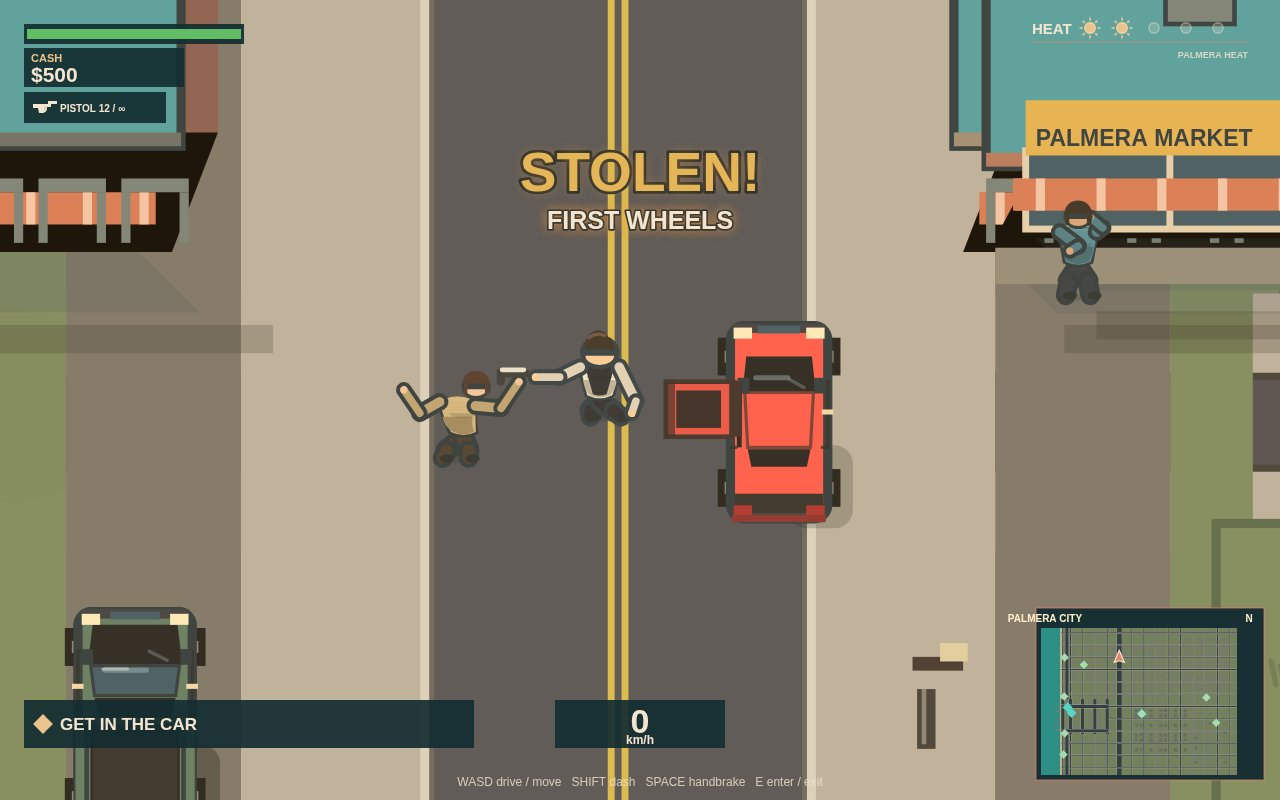
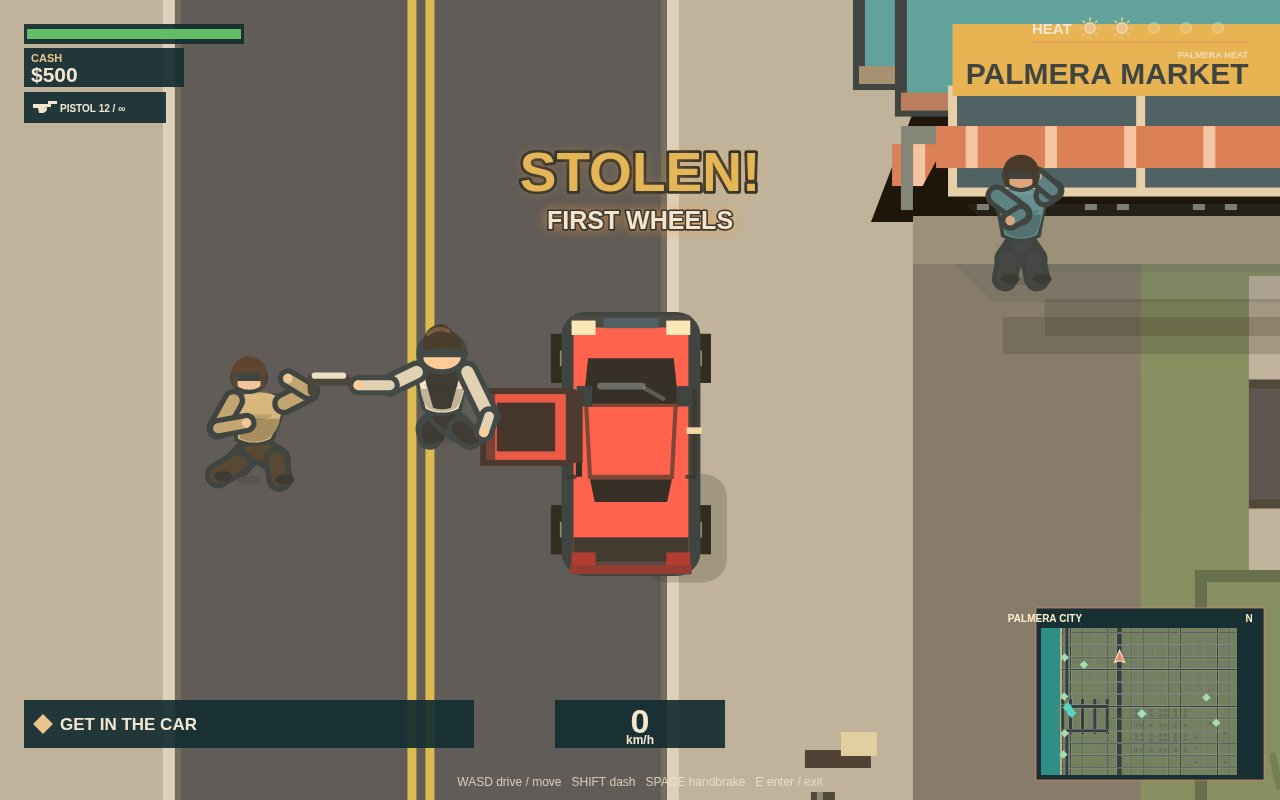
Rounds 151-158: carjack restaged (Danny at open door, owner recoil, hand-escape) and promoted to default; effect-mark and face experiments kept param-gated off (rejected in reviews 49-51); official screenshots updated

diff --git a/game/src/shots.js b/game/src/shots.js
@@ -5,6 +5,12 @@ import {Vehicle,VEHICLE_TYPES} from './vehicles.js';
 export const ShotDirector=class ShotDirector{
   stageShot(name,game){
   game.camera._homecomingWestClamp=0;const params=new URLSearchParams(location.search),seed=Number(params.get('seed')||1),variant=params.get('variant')||'',cover5=params.get('cover5')==='1'||(!params.has('cover2')&&!params.has('cover3')&&!params.has('cover4')&&!params.has('cover5')),cover2=params.get('cover2')==='1'&&!cover5,cover4=params.get('cover4')==='1',cover3=!cover2&&(cover4||params.get('cover3')!=='0'),homecoming2=params.get('homecoming2')==='1',hair2=params.get('hair2')==='1',hair3=params.get('hair3')==='1';game.rng=new SeededRandom(seed);game.world=new World(game.rng);const w=game.world;w._stagedShot=true;w._fxLegacy=params.get('fx')==='0';game.screen='play';const dress=(cars,people)=>{for(const [x,y,type,color,a] of cars){const q=new Vehicle(x,y,type,color,a);q.driver='traffic';q.speed=45;w.vehicles.push(q);w.traffic.cars.push(q);}for(const [x,y] of people){const p=w.pedestrians.people[w.pedestrians.people.length-1];const q={...p,x,y,vx:0,vy:0,angle:0,timer:0,run:false};w.pedestrians.people.push(q);}};
+  const carjack2=params.get('carjack2')==='1';
+  const carjack3=params.get('carjack3')==='1';
+  const marks=params.get('marks')==='1';
+  const faces=params.get('faces')==='1';
+  const marks2=params.get('marks2')==='1';
+  const gazeTo=(o,tx,ty,mag=1)=>{const dx=tx-o.x,dy=ty-o.y,d=Math.hypot(dx,dy)||1;return{x:dx/d*mag,y:dy/d*mag};};
   if(name==='title'){game.screen='title';game.camera.x=535;game.camera.y=950;game.time=8;return false;}
   if(name==='map'){w._showMap=true;w.objective={x:820,y:950,label:'MISSION: MEET MIA'};game.camera.x=535;game.camera.y=950;return true;}
   if(name==='styletest'){
@@ -44,13 +50,11 @@ export const ShotDirector=class ShotDirector{
    const v=new Vehicle(1955,720,'sport','#e94f45',0);v.speed=0;v.driver='player';v._doorOpen=true;v._coverDoorAngle=-62;v._groundMarker=false;v._handbrake=false;v._coverDoor=true;w.vehicles=[v];w.traffic.cars=[];w.gang.crews=[];w._shotSpeed=0;
    // The frozen door leaf swings screen-left at this heading. Keep both ground
    // anchors beyond its outer edge so the later vehicle draw cannot bury them.
-   const opening={world:v.getDriverDoorWorldPosition()},danny={x:opening.world.x-27,y:opening.world.y},owner={x:danny.x-25,y:danny.y+8};
-   // ITEM 5 — carjack causality: bring Danny slightly closer to the open door.
-   // At zoom 4.6, +5.5 world units is approximately 25 screen pixels.
-   danny.x+=5.5;
+   const opening={world:v.getDriverDoorWorldPosition()},danny={x:opening.world.x-14,y:opening.world.y},owner={x:danny.x-30,y:danny.y+5};
+   if(carjack2||carjack3||marks||faces||marks2){danny.x=opening.world.x-14;owner.x=danny.x-30;owner.y=danny.y+5;}
    w.player.x=danny.x;w.player.y=danny.y;w.player.angle=0;w.player._carjackHoldUp=true;w._shotHudMode='pistol';
-   const p=w.pedestrians.people[0];p.x=owner.x;p.y=owner.y;p.run=false;p._recoil=false;p._alarmed=false;p._coverOwnerStagger=false;p.pose='idle';p.joints={head:{x:4.2,y:-14.8},shoulder:[{x:-5,y:-11},{x:4,y:-10}],hip:{x:1,y:-2.2},elbow:[{x:-10,y:-8.2},{x:10.5,y:-9.4}],hand:[{x:-14,y:-14},{x:15,y:-16}],knee:[{x:-3.2,y:1.1},{x:2.3,y:1.1}],foot:[{x:-4.2,y:3},{x:2.3,y:3}]};p.timer=0;p.vx=0;p.vy=0;p.angle=0;game.camera.x=(danny.x+owner.x)/2+24;game.camera.y=(danny.y+owner.y)/2-6;game.camera.zoom=4.6;
-   for(const q of w.city.parkedCars)if(q.color==='#47747a'&&Math.hypot(q.x-owner.x,q.y-owner.y)<100)q.y-=150;w._carjackAnchors={danny,owner,centerDistanceWorld:Math.hypot(danny.x-owner.x,danny.y-owner.y),zoom:4.6};const edgeVehicle=new Vehicle(1815,danny.y+68,'pickup','#526d59',0);edgeVehicle._parked=true;w.vehicles.push(edgeVehicle);w.city.parkedCars.push(edgeVehicle);
+   const p=w.pedestrians.people[0];p.x=owner.x;p.y=owner.y;p.run=false;p._recoil=false;p._alarmed=false;p._coverOwnerStagger=false;p.pose='idle';p.joints={head:{x:-2.5,y:-15.2},shoulder:[{x:-5.5,y:-10.8},{x:4.2,y:-10.2}],hip:{x:-1.5,y:-2},elbow:[{x:-8.5,y:-5.5},{x:9,y:-12.6}],hand:[{x:-3,y:-6.5},{x:5,y:-15}],knee:[{x:-4.5,y:1.1},{x:2.8,y:.6}],foot:[{x:-8.5,y:3.5},{x:3.4,y:4.2}]};p.timer=0;p.vx=0;p.vy=0;p.angle=0;game.camera.x=(danny.x+owner.x)/2+48;game.camera.y=(danny.y+owner.y)/2-7;game.camera.zoom=6.0;
+   for(const q of w.city.parkedCars)if(q.color==='#47747a'&&Math.hypot(q.x-owner.x,q.y-owner.y)<100)q.y-=150;w._carjackAnchors={danny,owner,centerDistanceWorld:Math.hypot(danny.x-owner.x,danny.y-owner.y),zoom:6.0};if(carjack2){game.camera.x=(danny.x+owner.x)/2+31;game.camera.y=(danny.y+owner.y)/2+2;game.camera.zoom=5.2;w._carjackAnchors={danny,owner,centerDistanceWorld:Math.hypot(danny.x-owner.x,danny.y-owner.y),zoom:5.2};}if(carjack3||marks||faces||marks2){game.camera.x=(danny.x+owner.x)/2+48;game.camera.y=(danny.y+owner.y)/2-7;game.camera.zoom=6.0;w._carjackAnchors={danny,owner,centerDistanceWorld:Math.hypot(danny.x-owner.x,danny.y-owner.y),zoom:6.0};}const edgeVehicle=new Vehicle(1815,danny.y+68,'pickup','#526d59',0);edgeVehicle._parked=true;w.vehicles.push(edgeVehicle);w.city.parkedCars.push(edgeVehicle);
    // ITEM 1 — grounded, restrained carjack witness reactions.
    const witnessPose={head:{x:0,y:-14.2},shoulder:[{x:-4.5,y:-10.5},{x:4.5,y:-10.5}],hip:{x:0,y:-2.2},elbow:[{x:0,y:-7.2},{x:6,y:-11.5}],hand:[{x:-2,y:-6},{x:3,y:-14}],knee:[{x:-2.3,y:1.1},{x:2.3,y:1.1}],foot:[{x:-3,y:4.5},{x:3,y:4.5}]};
    const rightWitness={...p,x:2020,y:danny.y-29,vx:0,vy:0,run:false,angle:0,timer:0,pose:'idle',joints:witnessPose,color:'#4b8290',skin:'#dca77f',pants:'#394653',hairStyle:'long',_recoil:false};
@@ -58,6 +62,10 @@ export const ShotDirector=class ShotDirector{
    // Clear only the local palm crowns whose fronds cross this shot's owner silhouette.
    w.city.palms=w.city.palms.filter(t=>[danny,owner].every(f=>Math.hypot((t.x-3)-f.x,(t.y-32)-f.y)>=56));w.city.streetProps=w.city.streetProps.filter(q=>[danny,owner].every(f=>Math.hypot(q.x-f.x,q.y-f.y)>30));
    w.pedestrians.people=[p,rightWitness,leftWitness];p.color='#C2AA78';p.skin='#dbad83';p.pants='#51483a';p.hair='#302923';p.hairStyle='short';
+   if(carjack2){p.joints={head:{x:-2.5,y:-15.2},shoulder:[{x:-5.5,y:-10.8},{x:4.2,y:-10.2}],hip:{x:-1.5,y:-2},elbow:[{x:-8.5,y:-5.5},{x:10,y:-10}],hand:[{x:-3,y:-6.5},{x:9,y:-11.9}],knee:[{x:-4.5,y:1.1},{x:2.8,y:.6}],foot:[{x:-8.5,y:3.5},{x:3.4,y:4.2}]};}if(carjack3||marks||faces||marks2){p.joints={head:{x:-2.5,y:-15.2},shoulder:[{x:-5.5,y:-10.8},{x:4.2,y:-10.2}],hip:{x:-1.5,y:-2},elbow:[{x:-8.5,y:-5.5},{x:9,y:-12.6}],hand:[{x:-3,y:-6.5},{x:5,y:-15}],knee:[{x:-4.5,y:1.1},{x:2.8,y:.6}],foot:[{x:-8.5,y:3.5},{x:3.4,y:4.2}]};}
+   if(marks){p._fx='sweat';p._fxSide=-1;rightWitness._fx='surprise';rightWitness._fxSide=-1;}
+   if(marks2){p._fx2='sweat';rightWitness._fx2='surprise';rightWitness._fx2Off={x:-16.5,y:-1.2};}
+   if(faces){p._face=gazeTo(p,w.player.x,w.player.y,.55);w.player._face=gazeTo(w.player,p.x,p.y);rightWitness._face=gazeTo(rightWitness,w.player.x,w.player.y,.55);}
    w.missions.index=1;w.missions.state='active';w.missions.car=v;w.objective=null;w._shotObjectiveBanner='GET IN THE CAR';w.heat=2;w.wanted.heat=2;
    w.effects.skids=[];w.effects.particles=w.effects.particles.filter(q=>!q._smoke);w.pinCallout('STOLEN!','FIRST WHEELS',{y:176});
   }
@@ -72,7 +80,7 @@ export const ShotDirector=class ShotDirector{
   }
   else if(name==='marina'){
    w.setTimeOfDay('dusk');for(const v of w.vehicles)if(v.type==='police'){v.type='sedan';v.color='#d8d2bd';}w.player.x=670;w.player.y=2065+(cover4&&!cover5?22:0); // cover4 moves Danny south by 22 world units so his muzzle line clears the crate stack.
-   w.player.angle=-Math.PI/2;w.player._cover=true;w.player._marinaAim=true;w.player._marinaLeanOut=true;w.player._marinaMuzzleFlash=true;w.player._marinaCover2Joints={head:{x:0,y:-14.2},shoulder:[{x:-4.5,y:-10.5},{x:4.5,y:-10.5}],hip:{x:0,y:-2.2},elbow:[{x:-10,y:-8.2},{x:-11,y:-10.5}],hand:[{x:-6,y:-4.1},{x:-23,y:-13.5}],knee:[{x:-2.3,y:1.1},{x:2.3,y:1.1}],foot:[{x:-2.3,y:3},{x:2.3,y:3}]};w._shotHudMode='pistol';w._marinaShotMarker=true;w._homecomingShotMarkerSuppressed=true;w.objective={x:554,y:2029,label:'SURVIVE THE AMBUSH'};w.city.crates=[{x:623,y:2039,w:30,h:28},{x:610,y:2065,w:23,h:19},{x:610,y:2042,w:23,h:19},{x:610,y:2025,w:23,h:19}];w.city.streetProps=w.city.streetProps.filter(q=>!(q.x>590&&q.x<680&&q.y>1930&&q.y<2190&&q.kind==='planter'));w.city.parkedCars=w.city.parkedCars.filter(q=>!(q.x>535&&q.x<700&&q.y>2030&&q.y<2140));
+   w.player.angle=-Math.PI/2;w.player._cover=true;w.player._marinaAim=true;w.player._marinaLeanOut=true;w.player._marinaMuzzleFlash=true;w.player._marinaCover2Joints={head:{x:0,y:-14.2},shoulder:[{x:-4.5,y:-10.5},{x:4.5,y:-10.5}],hip:{x:0,y:-2.2},elbow:[{x:-10,y:-8.2},{x:-11,y:-10.5}],hand:[{x:-6,y:-4.1},{x:-23,y:-13.5}],knee:[{x:-2.3,y:1.1},{x:2.3,y:1.1}],foot:[{x:-2.3,y:3},{x:2.3,y:3}]};w._shotHudMode='pistol';w._marinaShotMarker=true;if(marks){w.player._fx='surprise';w.player._fxSide=1;}if(marks2){w.player._fx2='surprise';w.player._fx2Off={x:-6,y:0};}w._homecomingShotMarkerSuppressed=true;w.objective={x:554,y:2029,label:'SURVIVE THE AMBUSH'};w.city.crates=[{x:623,y:2039,w:30,h:28},{x:610,y:2065,w:23,h:19},{x:610,y:2042,w:23,h:19},{x:610,y:2025,w:23,h:19}];w.city.streetProps=w.city.streetProps.filter(q=>!(q.x>590&&q.x<680&&q.y>1930&&q.y<2190&&q.kind==='planter'));w.city.parkedCars=w.city.parkedCars.filter(q=>!(q.x>535&&q.x<700&&q.y>2030&&q.y<2140));
    // Pier-side and road-side teams converge on the marked crate cover.
    const pier=w.gang.spawnGroup(530,1950,3,{faction:'Ambush',color:'#B65D59'});
    pier.members.forEach((p,i)=>{p.x=525+i*18;p.y=1995+i*18;p.state='combat';p.angle=Math.atan2(w.player.y-p.y,w.player.x-p.x);p._marinaWeapon=true;p._marinaAimTarget={x:i===2?628:644,y:i===2?2047:2043};p._marinaAimAngle=Math.atan2(p._marinaAimTarget.y-p.y,p._marinaAimTarget.x-p.x);p._flash=i===0;p._advancing=true;p.cover={x:p.x,y:p.y};});
@@ -106,6 +114,7 @@ export const ShotDirector=class ShotDirector{
    }
    if(cover5)road.members.forEach((p,i)=>{p._marinaAimTarget={x:670,y:2065+(i===0?12:0)};});
    for(const p of [...pier.members,...road.members])p._marinaAimAngle=Math.atan2(p._marinaAimTarget.y-p.y,p._marinaAimTarget.x-p.x);
+   if(faces){for(const p of [...pier.members,...road.members])p._face=gazeTo(p,w.player.x,w.player.y);w.player._face=gazeTo(w.player,road.members[0].x,road.members[0].y);}
    // Left group keeps one round; the right group fires two brighter, longer tapered rounds.
    if(!cover2){const members=[pier.members[0],road.members[0],road.members[1]];if(w._fxLegacy){for(const p of members){const a=p._marinaAimAngle,anchor=p._cover3Weapon?p.joints.hand[1]:{x:8,y:-4.5},hx=anchor.x*.8715,hy=anchor.y*.8715,muzzle={x:p.x+hx*Math.cos(a)-hy*Math.sin(a)+10*Math.cos(a),y:p.y+hx*Math.sin(a)+hy*Math.cos(a)+10*Math.sin(a)},length=p._coverRightFiring?29.5:25;if(cover4&&p===road.members[1]){const x=660,y=2094;w.combat.bullets.push({x,y,prevX:x-Math.cos(a)*length,prevY:y-Math.sin(a)*length,vx:0,vy:0,life:1,range:300,owner:'gang',staged:true,tapered:true,coverRightTracer:true});}else w.combat.bullets.push({x:muzzle.x+Math.cos(a)*length,y:muzzle.y+Math.sin(a)*length,prevX:muzzle.x,prevY:muzzle.y,vx:0,vy:0,life:1,range:300,owner:'gang',staged:true,tapered:true,coverRightTracer:!!p._coverRightFiring});}}else{for(const [i,p] of members.entries()){const a=p._marinaAimAngle,[x,y,length]=cover4&&i===2?[660,2094,29.5]:i===0?[644,2043,25]:i===1?[640,2034,29.5]:[655,2075,29.5];w.combat.bullets.push({x,y,prevX:x-Math.cos(a)*length,prevY:y-Math.sin(a)*length,vx:0,vy:0,life:1,range:300,owner:'gang',staged:true,tapered:true,coverRightTracer:i>0});}}}
    if(cover5){w.combat.bullets=w.combat.bullets.filter(b=>!(b.owner==='gang'&&b.staged&&b.coverRightTracer));for(const [p,end] of [[road.members[0],{x:670,y:2077}],[road.members[1],{x:674,y:2065}]]){const a=Math.atan2(end.y-p.y,end.x-p.x),length=29.5;w.combat.bullets.push({x:end.x,y:end.y,prevX:end.x-Math.cos(a)*length,prevY:end.y-Math.sin(a)*length,vx:0,vy:0,life:1,range:300,owner:'gang',staged:true,tapered:true,coverRightTracer:true});}const a=2.2,length=9;w.player._marinaCover5=true;w.player._weaponAngle=a;w.player._marinaCover2Joints={...w.player._marinaCover2Joints,head:{...w.player._marinaCover2Joints.head,x:-w.player._marinaCover2Joints.head.x},shoulder:w.player._marinaCover2Joints.shoulder.map(p=>({x:-p.x,y:p.y})),elbow:w.player._marinaCover2Joints.elbow.map(p=>({x:-p.x,y:p.y})),hand:w.player._marinaCover2Joints.hand.map(p=>({x:-p.x,y:p.y}))};const joints=w.player._marinaCover2Joints,shoulder=joints.shoulder[1],rotateArm=p=>{const x=p.x-shoulder.x,y=p.y-shoulder.y,cos=Math.SQRT1_2,sin=-Math.SQRT1_2;return{x:shoulder.x+x*cos-y*sin,y:shoulder.y+x*sin+y*cos};};joints.elbow[1]=rotateArm(joints.elbow[1]);joints.hand[1]=rotateArm(joints.hand[1]);const armLength=15.5206,forearmLength=12.0503,upperAngle=Math.atan2(-7,13),forearmAngle=-Math.PI*5/12;joints.elbow[1]={x:shoulder.x+armLength*Math.cos(upperAngle),y:shoulder.y+armLength*Math.sin(upperAngle)};joints.hand[1]={x:joints.elbow[1].x+forearmLength*Math.cos(forearmAngle),y:joints.elbow[1].y+forearmLength*Math.sin(forearmAngle)};const hand=joints.hand[1],muzzle={x:w.player.x+hand.x-10*Math.cos(a),y:w.player.y+hand.y-10*Math.sin(a)};w.combat.bullets.push({x:muzzle.x-length*Math.cos(a),y:muzzle.y-length*Math.sin(a),prevX:muzzle.x,prevY:muzzle.y,vx:0,vy:0,life:1,range:300,owner:'player',staged:true,tapered:true});}else if(cover4){const a=.42,hand={x:-23,y:-13.5},muzzle={x:w.player.x+hand.x*Math.cos(a)-hand.y*Math.sin(a)-10*Math.cos(a),y:w.player.y+hand.x*Math.sin(a)+hand.y*Math.cos(a)-10*Math.sin(a)},length=9;w.combat.bullets.push({x:muzzle.x-length*Math.cos(a),y:muzzle.y-length*Math.sin(a),prevX:muzzle.x,prevY:muzzle.y,vx:0,vy:0,life:1,range:300,owner:'player',staged:true,tapered:true});}else w.combat.bullets.push(w._fxLegacy?{x:635,y:2055,prevX:670,prevY:2055,sx:670,sy:2055,vx:0,vy:0,life:1,range:300,owner:'player',staged:true}:{x:633,y:2045,prevX:642,prevY:2049,sx:670,sy:2055,vx:0,vy:0,life:1,range:300,owner:'player',staged:true,tapered:true});
@@ -140,13 +149,14 @@ export const ShotDirector=class ShotDirector{
    const danny={...pedestrianTemplate,x:dannyAt.x,y:dannyAt.y,vx:0,vy:0,angle:.28,timer:0,run:false,hero:true,color:'#F3E8D2',inner:'#D8C7A7',skin:'#e8bd91',pants:'#30343B',hair:'#302923',_shotScale:1,_homecomingPose:true,pose:'idle',joints:{head:{x:1.5,y:-14.2},shoulder:[{x:-4.5,y:-10.5},{x:4.5,y:-10.5}],hip:{x:0,y:-2.2},elbow:[{x:-5.6,y:-7.5},{x:11,y:-11.5}],hand:[{x:-6,y:-4.1},{x:17,y:-15}],knee:[{x:-2.3,y:1.1},{x:2.3,y:1.1}],foot:[{x:-2.3,y:3},{x:4.2,y:3}]}};
    const mia={...pedestrianTemplate,x:miaAt.x,y:miaAt.y,vx:0,vy:0,angle:.34,timer:0,run:false,color:'#F06F67',pants:'#51443E',hairStyle:'long',_shotScale:1,_homecomingPose:true,pose:'idle',joints:{head:{x:-1.5,y:-14.2},shoulder:[{x:-4.5,y:-10.5},{x:4.5,y:-10.5}],hip:{x:0,y:-2.2},elbow:[{x:-6.2,y:-6.8},{x:6.2,y:-5.2}],hand:[{x:-7.1,y:-2.8},{x:10,y:-1.5}],knee:[{x:-3.2,y:1.1},{x:3.2,y:1.1}],foot:[{x:-3.8,y:3},{x:3.8,y:3}]}};
    if(hair2)mia._hairLong2=true;
-   mia._hairLong3=true;mia._femFigure=true;
+   mia._hairLong3=true;mia._femFigure=true;if(marks){mia._fx='heart';mia._fxSide=-1;}if(marks2){mia._fx2='heart';mia._fx2Off={x:-4.30,y:.74};}
+   if(faces)danny._face={x:.96,y:-.28};
    const miaBaseJoints=mia.joints;
    mia.joints={head:{x:-1.8,y:-14.3},shoulder:[{x:-4.5,y:-10.9},{x:4.5,y:-10.1}],hip:{x:0,y:-2.2},elbow:[{x:-6.5,y:-7.8},{x:6.2,y:-5.2}],hand:[{x:-4.5,y:-9},{x:10,y:-1.5}],knee:[{x:-3.2,y:1.1},{x:3.2,y:1.1}],foot:[{x:-3.8,y:3},{x:3.8,y:3}]};
    w.player._homecomingHidden=true;w.pedestrians.people=[danny,mia];w.vehicles.push(car);
    // Two quiet passersby add life while leaving a clear pocket around the reunion.
    dress([],[[680,1004],[570,1072]]);const npc1=w.pedestrians.people[2],npc2=w.pedestrians.people[3];
-   delete npc1._hairLong2;delete npc2._hairLong2;delete npc1._hairLong3;delete npc1._femFigure;delete npc2._hairLong3;delete npc2._femFigure;npc1.joints=miaBaseJoints;
+   delete npc1._hairLong2;delete npc2._hairLong2;delete npc1._hairLong3;delete npc1._femFigure;delete npc2._hairLong3;delete npc2._femFigure;delete npc1._fx;delete npc2._fx;delete npc1._fx2;delete npc2._fx2;delete npc1._fx2Off;delete npc2._fx2Off;delete npc1._face;delete npc2._face;npc1.joints=miaBaseJoints;
    Object.assign(npc1,{color:'#4b8290',skin:'#dca77f',pants:'#394653',pose:'walk',angle:0,vx:14,vy:0});
    // ITEM 2 — keep the sea-facing green passerby upright, facing west toward
    // the water, with relaxed arms and a grounded idle pose.
@@ -158,7 +168,7 @@ export const ShotDirector=class ShotDirector{
   }
   else if(name==='getaway'){
    w.setTimeOfDay('night');w._shotHudMode='driving';w._getawayCargoShift=true;w.vehicles=[];w.traffic.cars=[];w.pedestrians.people=[];
-   const heading=.61,forward={x:Math.sin(heading),y:-Math.cos(heading)},advance=18,x=4095+forward.x*advance,y=2505+forward.y*advance,v=new Vehicle(x,y,'sport','#f27b68',heading);v.speed=820;v.driver='player';v._handbrake=true;v._headlights=true;v._groundMarker=true;w.vehicles.push(v);w.driving=v;w.player.x=x;w.player.y=y;
+   const heading=.61,forward={x:Math.sin(heading),y:-Math.cos(heading)},advance=18,x=4095+forward.x*advance,y=2505+forward.y*advance,v=new Vehicle(x,y,'sport','#f27b68',heading);v.speed=820;v.driver='player';v._handbrake=true;v._headlights=true;v._groundMarker=true;w.vehicles.push(v);w.driving=v;w.player.x=x;w.player.y=y;if(marks){w.player._fx='sweat';w.player._fxSide=-1;}if(marks2){w.player._fx2='sweat';}
    // Keep the ramp, hero car, and police funnel on one clean apron sightline.
    const ramp={x:4119,y:2470};w.objective={x:ramp.x,y:ramp.y,label:'REACH THE CARGO PLANE'};w._getawayShotMarkerSuppressed=true;w._shotObjectiveBanner='REACH THE CARGO PLANE';w._shotSpeed=122;w.heat=w.wanted.heat=5;
    w.missions.index=5;w.missions.state='active';

diff --git a/game/src/figures.js b/game/src/figures.js
@@ -1,6 +1,49 @@
 import {ART} from './art.js';
 import {LIGHTING,FIGURES_V2,UNIFIED_SHADOWS,drawGroundShadow,shade} from './lighting.js';
 const POSES={idle:{lean:0,arm:0,leg:0},walk:{lean:0,arm:1.8,leg:2},run:{lean:2,arm:3,leg:3},stumble:{lean:3,arm:2.8,leg:2.5},'car-entry':{lean:4,arm:2.5,leg:2.5},aim:{lean:1,arm:4,leg:0},cover:{lean:2.5,arm:3.2,leg:1.8}};
+// Staging-only manga effect marks, drawn beside the head as flat vector shapes.
+// Sizes are figure-local units; total mark height is ~0.5-0.8x the head height.
+const FX_META={surprise:{hw:1.8,hh:2.45},heart:{hw:2.4,hh:2.2},sweat:{hw:2.9,hh:2.4}};
+function drawFxMark(c,kind,cx,cy,side){
+ const outline=ART.palette.outline;
+ c.save();c.translate(cx,cy);c.scale(side,1);c.lineJoin='round';c.lineCap='round';
+ if(kind==='surprise'){
+  c.fillStyle='#ffd94a';c.strokeStyle=outline;c.lineWidth=.55;
+  for(const bx of [-1.15,1.15]){
+   c.beginPath();c.rect(bx-.58,-2.45,1.16,3.1);c.fill();c.stroke();
+   c.beginPath();c.arc(bx,1.75,.62,0,Math.PI*2);c.fill();c.stroke();
+  }
+ }else if(kind==='heart'){
+  c.beginPath();c.moveTo(0,2.1);
+  c.bezierCurveTo(-2.8,.4,-2.4,-2.2,-1.1,-2.2);
+  c.bezierCurveTo(-.3,-2.2,0,-1.4,0,-.8);
+  c.bezierCurveTo(0,-1.4,.3,-2.2,1.1,-2.2);
+  c.bezierCurveTo(2.4,-2.2,2.8,.4,0,2.1);
+  c.closePath();c.fillStyle='#ef5148';c.fill();c.strokeStyle=outline;c.lineWidth=.55;c.stroke();
+  c.fillStyle='rgba(255,255,255,.55)';c.beginPath();c.ellipse(-1.15,-1.15,.55,.38,-.6,0,Math.PI*2);c.fill();
+ }else if(kind==='sweat'){
+  const drop=(x,y,s,a)=>{c.save();c.translate(x,y);c.rotate(a);c.scale(s,s);c.beginPath();c.moveTo(0,-1.9);c.bezierCurveTo(1.05,-.6,1.02,.75,0,.95);c.bezierCurveTo(-1.02,.75,-1.05,-.6,0,-1.9);c.closePath();c.fillStyle='#8fd8f7';c.fill();c.strokeStyle=outline;c.lineWidth=.5;c.stroke();c.fillStyle='rgba(255,255,255,.75)';c.beginPath();c.arc(-.34,.28,.3,0,Math.PI*2);c.fill();c.restore();};
+  drop(.9,-.3,1.05,.5);drop(-1.7,-1.3,.72,.15);drop(2.2,-1.8,.55,.85);
+ }
+ c.restore();
+}
+export function drawFxMarkAt(c,kind,x,y,side=1){c.save();c.translate(x,y);c.scale(ART.figureScale,ART.figureScale);drawFxMark(c,kind,0,0,side);c.restore();}
+function drawFxBalloon(c,kind,cx,cy){
+ c.save();c.translate(cx,cy);c.lineJoin='round';c.lineCap='round';
+ const ink='#26221e';
+ c.beginPath();c.moveTo(-1.15,4.4);c.lineTo(1.15,4.4);c.lineTo(0,7.15);c.closePath();c.fillStyle='#fffdf4';c.fill();c.strokeStyle=ink;c.lineWidth=.35;c.stroke();
+ c.beginPath();c.ellipse(0,0,4.5,5.25,0,0,Math.PI*2);c.fillStyle='#fffdf4';c.fill();c.strokeStyle=ink;c.lineWidth=.35;c.stroke();
+ if(kind==='surprise'){
+  c.fillStyle=ink;c.beginPath();c.rect(-0.8,-3.3,1.6,3.9);c.fill();c.beginPath();c.arc(0,2.3,0.85,0,Math.PI*2);c.fill();
+ }else if(kind==='heart'){
+  c.save();c.scale(1.4,1.4);c.beginPath();c.moveTo(0,2.1);c.bezierCurveTo(-2.8,.4,-2.4,-2.2,-1.1,-2.2);c.bezierCurveTo(-.3,-2.2,0,-1.4,0,-.8);c.bezierCurveTo(0,-1.4,.3,-2.2,1.1,-2.2);c.bezierCurveTo(2.4,-2.2,2.8,.4,0,2.1);c.closePath();c.fillStyle='#ef5148';c.fill();c.strokeStyle=ink;c.lineWidth=.3;c.stroke();c.restore();
+ }else if(kind==='sweat'){
+  const drop=(x,y,s,a)=>{c.save();c.translate(x,y);c.rotate(a);c.scale(s,s);c.beginPath();c.moveTo(0,-1.9);c.bezierCurveTo(1.05,-.6,1.02,.75,0,.95);c.bezierCurveTo(-1.02,.75,-1.05,-.6,0,-1.9);c.closePath();c.fillStyle='#57b7e8';c.fill();c.strokeStyle=ink;c.lineWidth=.3;c.stroke();c.restore();};
+  drop(-1.9,-.4,1.55,-.18);drop(1.9,-.4,1.55,.18);
+ }
+ c.restore();
+}
+export function drawFxBalloonAt(c,kind,x,y){c.save();c.translate(x,y);c.scale(ART.figureScale,ART.figureScale);drawFxBalloon(c,kind,0,-12.9);c.restore();}
 export function drawFigure(c,o={}){
  const hero=!!o.hero,litHero=LIGHTING&&hero,figureV2=FIGURES_V2,skinBase=o.skin||ART.palette.skin,shirtBase=o.torso||'#cf694f',pantsBase=o.pants||ART.palette.pants,hairBase=o.hair||ART.palette.hair;
  // Non-hero variety is derived from visual class inputs, so repeated figures stay consistent.
@@ -35,6 +78,10 @@ export function drawFigure(c,o={}){
  // Broad crown is dominant. A slim skin crescent at the lower edge is the only facial cue.
  const hs=hero?1.35:1;c.fillStyle=outline;c.beginPath();c.ellipse(headPoint.x,headPoint.y,3.65*hs,3.15*hs,0,0,Math.PI*2);c.fill();c.fillStyle=skin;c.beginPath();c.ellipse(headPoint.x,headPoint.y+.65*hs,2.65*hs,1.7*hs,0,0,Math.PI);c.fill();
  c.fillStyle=hair;c.beginPath();if(hero){c.moveTo(headPoint.x-3.5,headPoint.y-.35);c.quadraticCurveTo(headPoint.x-4.2,headPoint.y-4.7,headPoint.x-.4,headPoint.y-5.5);c.quadraticCurveTo(headPoint.x+1.2,headPoint.y-5.4,headPoint.x+2.1,headPoint.y-3.9);c.quadraticCurveTo(headPoint.x+3.8,headPoint.y-3.2,headPoint.x+3.6,headPoint.y-.35);c.quadraticCurveTo(headPoint.x,headPoint.y-1.5,headPoint.x-3.5,headPoint.y-.35);c.fill();c.strokeStyle='#665044';c.lineWidth=.8;c.beginPath();c.moveTo(headPoint.x-2.7,headPoint.y-3.6);c.quadraticCurveTo(headPoint.x-.7,headPoint.y-5.15,headPoint.x+1.25,headPoint.y-4.15);c.stroke();}else if(o._hairLong3){const hx=headPoint.x,hy=headPoint.y;c.beginPath();c.moveTo(hx-1.85,hy+3.2);c.quadraticCurveTo(hx-3.15,hy-.8,hx-3.6,hy-3.2);c.quadraticCurveTo(hx-2.5,hy-5.25,hx-.45,hy-5.6);c.quadraticCurveTo(hx+1.2,hy-5.5,hx+3.65,hy-3.15);c.quadraticCurveTo(hx+4.65,hy-.7,hx+4.45,hy+3.3);c.quadraticCurveTo(hx+4.65,hy+6.2,hx+4.2,hy+9.1);c.quadraticCurveTo(hx+4.05,hy+10.7,hx+3.35,hy+12.5);c.quadraticCurveTo(hx+2.7,hy+11.9,hx+2.15,hy+10.7);c.quadraticCurveTo(hx+1.65,hy+12.2,hx+.65,hy+12.1);c.quadraticCurveTo(hx-.1,hy+11.1,hx-.45,hy+10.1);c.quadraticCurveTo(hx-.8,hy+10.9,hx-1.05,hy+9.2);c.quadraticCurveTo(hx-1.15,hy+7.4,hx-1.15,hy+6.8);c.quadraticCurveTo(hx-1.35,hy+5.9,hx-1.85,hy+3.2);c.closePath();c.fillStyle=hairBase;c.fill();c.strokeStyle=outline;c.lineWidth=.7;c.stroke();c.beginPath();c.moveTo(hx-1.8,hy+5);c.quadraticCurveTo(hx-.1,hy+5.7,hx+4.4,hy+4.8);c.quadraticCurveTo(hx+4.55,hy+7.2,hx+4.2,hy+9.1);c.quadraticCurveTo(hx+4.05,hy+10.7,hx+3.35,hy+12.5);c.quadraticCurveTo(hx+2.7,hy+11.9,hx+2.15,hy+10.7);c.quadraticCurveTo(hx+1.65,hy+12.2,hx+.65,hy+12.1);c.quadraticCurveTo(hx-.1,hy+11.1,hx-.45,hy+10.1);c.quadraticCurveTo(hx-.8,hy+10.9,hx-1.05,hy+9.2);c.quadraticCurveTo(hx-1.15,hy+7.4,hx-1.15,hy+6.8);c.quadraticCurveTo(hx-1.35,hy+5.9,hx-1.8,hy+5);c.closePath();c.fillStyle=shade(hairBase,.78);c.globalAlpha=.5;c.fill();c.globalAlpha=1;c.strokeStyle=shade(hairBase,.5);c.lineWidth=.8;c.beginPath();c.moveTo(hx-2.3,hy-4.1);c.quadraticCurveTo(hx-.3,hy-5.35,hx+1.8,hy-4.1);c.quadraticCurveTo(hx+2.5,hy-3.65,hx+2.8,hy-2.9);c.stroke();c.strokeStyle=shade(hairBase,1.45);c.lineWidth=.7;c.beginPath();c.moveTo(hx-3.3,hy-4.1);c.quadraticCurveTo(hx-2.1,hy-5.15,hx-.9,hy-5.25);c.stroke();}else if(o._hairLong2){const hx=headPoint.x,hy=headPoint.y;c.beginPath();c.moveTo(hx-4.5,hy+3.4);c.quadraticCurveTo(hx-5.1,hy-.8,hx-3.7,hy-3.2);c.quadraticCurveTo(hx,hy-5.6,hx+3.7,hy-3.2);c.quadraticCurveTo(hx+5.1,hy-.8,hx+4.5,hy+3.4);c.quadraticCurveTo(hx+2.4,hy+4.6,hx+.6,hy+4.05);c.quadraticCurveTo(hx-1.2,hy+4.75,hx-4.5,hy+3.4);c.closePath();c.fillStyle=hairBase;c.fill();c.strokeStyle=outline;c.lineWidth=.7;c.stroke();c.beginPath();c.moveTo(hx-4.42,hy+1.9);c.quadraticCurveTo(hx,hy+3.1,hx+4.42,hy+1.9);c.lineTo(hx+4.5,hy+3.4);c.quadraticCurveTo(hx+2.4,hy+4.6,hx+.6,hy+4.05);c.quadraticCurveTo(hx-1.2,hy+4.75,hx-4.5,hy+3.4);c.closePath();c.fillStyle=shade(hairBase,.78);c.globalAlpha=.5;c.fill();c.globalAlpha=1;}else if(figureV2){const variant=classHash%3;if(variant===0){c.moveTo(headPoint.x-3.4,headPoint.y-.2);c.quadraticCurveTo(headPoint.x-3.9,headPoint.y-4.2,headPoint.x-.2,headPoint.y-4.3);c.quadraticCurveTo(headPoint.x+3.8,headPoint.y-4.2,headPoint.x+3.4,headPoint.y-.2);c.quadraticCurveTo(headPoint.x,headPoint.y-1.1,headPoint.x-3.4,headPoint.y-.2);c.fill();}else if(variant===1){c.moveTo(headPoint.x-3.5,headPoint.y-.1);c.quadraticCurveTo(headPoint.x-4.2,headPoint.y-3.2,headPoint.x-1.8,headPoint.y-3.8);c.quadraticCurveTo(headPoint.x-.5,headPoint.y-5.1,headPoint.x+1.2,headPoint.y-3.7);c.quadraticCurveTo(headPoint.x+4,headPoint.y-3.4,headPoint.x+3.4,headPoint.y-.1);c.lineTo(headPoint.x+2.5,headPoint.y-.5);c.lineTo(headPoint.x+1.6,headPoint.y-.1);c.lineTo(headPoint.x+.5,headPoint.y-.7);c.lineTo(headPoint.x-.5,headPoint.y-.1);c.lineTo(headPoint.x-1.5,headPoint.y-.6);c.closePath();c.fill();}else{c.ellipse(headPoint.x,headPoint.y-.8,3.4,3.2,0,Math.PI,Math.PI*2);c.fill();c.fillRect(headPoint.x-3.1,headPoint.y-1.1,.9,3.1);c.fillRect(headPoint.x+2.2,headPoint.y-1.1,.9,3.1);}}else{c.ellipse(headPoint.x,headPoint.y-.65,3.3,2.65,0,Math.PI,Math.PI*2);c.fill();}if(!hero&&(o.hairStyle||'short')==='long'&&!figureV2){c.fillRect(headPoint.x-3.2,headPoint.y-.7,1.2,3.4);c.fillRect(headPoint.x+2,headPoint.y-.7,1.2,3.4);}
+ // Minimal eyes in the skin face window: solid dark ovals, gaze = whole-pair shift.
+ if(o._face){const gx=Math.max(-1.15,Math.min(1.15,o._face.x||0)),gy=Math.max(-.15*hs,Math.min(.25*hs,o._face.y||0));c.fillStyle='#1f1813';for(const s of [-1,1]){c.beginPath();c.ellipse(headPoint.x+gx+s*1.5*hs,headPoint.y+1.45*hs+gy,.52*hs,.62*hs,0,0,Math.PI*2);c.fill();}}
+ if(o._fx&&FX_META[o._fx]){const fm=FX_META[o._fx],fside=o._fxSide||1;drawFxMark(c,o._fx,headPoint.x+fside*(3.65*hs+fm.hw+1.1),headPoint.y-3.15*hs-fm.hh+1.2,fside);}
+ if(o._fx2){drawFxBalloon(c,o._fx2,headPoint.x+(o._fx2Off?.x||0),headPoint.y-12.9+(o._fx2Off?.y||0));}
  if(o.rim){c.strokeStyle='rgba(255,215,150,.60)';c.lineWidth=.3;c.beginPath();c.ellipse(headPoint.x,headPoint.y,3.65*hs-.15,3.15*hs-.15,0,Math.PI*1.04,Math.PI*1.46);c.stroke();c.strokeStyle='rgba(255,215,150,.45)';c.lineWidth=.3;c.beginPath();c.moveTo(shoulder[0].x,shoulder[0].y);c.lineTo(elbows[0].x,elbows[0].y);c.stroke();}
  c.restore();
 }

diff --git a/game/src/player.js b/game/src/player.js
@@ -1,17 +1,17 @@
 import {VEHICLE_TYPES} from './vehicles.js';
-import {drawFigure} from './figures.js';
+import {drawFigure,drawFxMarkAt,drawFxBalloonAt} from './figures.js';
 const DANNY={hero:true,torso:'#E9DFC8',inner:'#24292D',skin:'#e8bd91',pants:'#30343B',hair:'#302923'};
 export class Player{
  constructor(x,y){this.x=x;this.y=y;this.angle=0;this.speed=170;this.vx=0;this.vy=0;}
  update(dt,input,world){if(world.driving){if(input.actions&4){const v=world.driving;if(!world.gameStarted||world.missions.state==='available')world.keepGarageCar(v);world.driving=null;v.driver=null;const free=(x,y)=>world.city.isLand(x,y)&&!world.city.collidesBuilding(x,y,8),cos=Math.cos(v.angle),sin=Math.sin(v.angle),exit={x:v.x+cos*34,y:v.y+sin*34};if(!free(exit.x,exit.y)){const candidates=[{x:v.x-cos*34,y:v.y-sin*34}];for(const r of [46,58,70,84])for(let i=0;i<8;i++){const a=i*Math.PI/4;candidates.push({x:v.x+Math.cos(a)*r,y:v.y+Math.sin(a)*r});}const alternative=candidates.find(p=>free(p.x,p.y));if(alternative)exit.x=alternative.x,exit.y=alternative.y;}this.x=exit.x;this.y=exit.y;return;}const v=world.driving,hb=input.down('Space'),throttle=(input.down('KeyW')?1:0)-(input.down('KeyS')?1:0);v._handbrake=hb;v._hardBrake=throttle<0;v.update(dt,{throttle,steer:(input.down('KeyD')?1:0)-(input.down('KeyA')?1:0),handbrake:hb},world);return;}const dx=(input.down('KeyD')||input.down('ArrowRight')?1:0)-(input.down('KeyA')||input.down('ArrowLeft')?1:0),dy=(input.down('KeyS')||input.down('ArrowDown')?1:0)-(input.down('KeyW')||input.down('ArrowUp')?1:0),m=Math.hypot(dx,dy)||1;this.speed=input.down('ShiftLeft')||input.down('ShiftRight')?300:170;this.vx=dx/m*this.speed;this.vy=dy/m*this.speed;if(dx||dy)this.angle=Math.atan2(dx,-dy);const nx=this.x+this.vx*dt,ny=this.y+this.vy*dt;if(world.city.isLand(nx,ny)&&!world.city.collidesBuilding(nx,ny,8)){this.x=nx;this.y=ny;}if(input.actions&4){const car=world.nearestCar(this.x,this.y,55);if(car){world.driving=car;car.driver='player';car._carjack=true;}}}
- draw(c,cam,world){if(world.driving||this._homecomingHidden)return;const dannyPalette=world._marinaShotMarker?{...DANNY,torso:'#F7E6C8'}:DANNY; if(this._groundMarker){c.save();c.strokeStyle='rgba(255,225,139,.9)';c.lineWidth=1;c.beginPath();c.ellipse(this.x,this.y,14,4,0,0,Math.PI*2);c.stroke();c.restore();} c.save();c.translate(this.x,this.y);if(this._carjackHoldUp){const joints={head:{x:0,y:-14.2},shoulder:[{x:-4.5,y:-10.5},{x:4.5,y:-10.5}],hip:{x:0,y:-2.2},elbow:[{x:-10,y:-8},{x:9,y:-2}],hand:[{x:-16,y:-8},{x:8,y:1}],knee:[{x:-2.3,y:1.1},{x:3.4,y:1.1}],foot:[{x:-2.3,y:3},{x:5.3,y:3}]};drawFigure(c,{...dannyPalette,hairStyle:'short',pose:'aim',joints});c.strokeStyle='#34383a';c.lineWidth=1.8;c.beginPath();c.moveTo(-16,-7.8);c.lineTo(-21.5,-7.8);c.lineTo(-21.5,-6);c.stroke();c.strokeStyle='rgba(238,235,218,.98)';c.lineWidth=1.05;c.beginPath();c.moveTo(-16.5,-8.55);c.lineTo(-21.2,-8.55);c.stroke();}else if(this._coverShove){drawFigure(c,{...dannyPalette,hairStyle:'short',pose:'stumble',joints:this._coverShove});}else if(this._coverEntering){
+ draw(c,cam,world){if(world.driving){if(this._fx){const v=world.driving,door=v.getDriverDoorWorldPosition?v.getDriverDoorWorldPosition():null;if(door){const dx=door.x-v.x,dy=door.y-v.y,m=Math.hypot(dx,dy)||1;drawFxMarkAt(c,this._fx,door.x+dx/m*7,door.y+dy/m*7-3,this._fxSide||1);}}if(this._fx2){const v=world.driving,door=v.getDriverDoorWorldPosition?v.getDriverDoorWorldPosition():null;if(door){const dx=door.x-v.x,dy=door.y-v.y,m=Math.hypot(dx,dy)||1;drawFxBalloonAt(c,this._fx2,door.x+dx/m*7,door.y+dy/m*7-3);}}return;}if(this._homecomingHidden)return;const dannyPalette=world._marinaShotMarker?{...DANNY,torso:'#F7E6C8'}:DANNY; if(this._groundMarker){c.save();c.strokeStyle='rgba(255,225,139,.9)';c.lineWidth=1;c.beginPath();c.ellipse(this.x,this.y,14,4,0,0,Math.PI*2);c.stroke();c.restore();} c.save();c.translate(this.x,this.y);if(this._carjackHoldUp){const joints={head:{x:0,y:-14.2},shoulder:[{x:-4.5,y:-10.5},{x:4.5,y:-10.5}],hip:{x:0,y:-2.2},elbow:[{x:-10,y:-8},{x:9,y:-2}],hand:[{x:-16,y:-8},{x:8,y:1}],knee:[{x:-2.3,y:1.1},{x:3.4,y:1.1}],foot:[{x:-2.3,y:3},{x:5.3,y:3}]};drawFigure(c,{...dannyPalette,hairStyle:'short',pose:'aim',joints,_face:this._face});c.strokeStyle='#34383a';c.lineWidth=1.8;c.beginPath();c.moveTo(-16,-7.8);c.lineTo(-21.5,-7.8);c.lineTo(-21.5,-6);c.stroke();c.strokeStyle='rgba(238,235,218,.98)';c.lineWidth=1.05;c.beginPath();c.moveTo(-16.5,-8.55);c.lineTo(-21.2,-8.55);c.stroke();}else if(this._coverShove){drawFigure(c,{...dannyPalette,hairStyle:'short',pose:'stumble',joints:this._coverShove});}else if(this._coverEntering){
    // Danny stands north of the flank, bracing on the open door and reaching into the cabin.
    c.rotate(0);
    drawFigure(c,{...DANNY,hairStyle:'short',pose:'car-entry',joints:{head:{x:1.2,y:-10.8},shoulder:[{x:-4.3,y:-9.9},{x:4.7,y:-9.6}],hip:{x:0.3,y:-2.2},elbow:[{x:-7.8,y:-7.2},{x:8.2,y:-5.4}],hand:[{x:-11.0,y:-9.2},{x:10.2,y:-0.6}],knee:[{x:-3.4,y:0.9},{x:5.4,y:1.8}],foot:[{x:-6.8,y:3.2},{x:7.4,y:5.0}]}});
   }else if(this._marinaAim){
    // Marina's shot-specific aim keeps Danny behind cover while his head and weapon clear it.
    const aimJoints=this._marinaCover2Joints|| (this._marinaLeanOut?{head:{x:0,y:-14.2},shoulder:[{x:-4.5,y:-10.5},{x:4.5,y:-10.5}],hip:{x:0,y:-2.2},elbow:[{x:-10,y:-8.2},{x:-10,y:-8.4}],hand:[{x:-6,y:-4.1},{x:-23,y:-8}],knee:[{x:-2.3,y:1.1},{x:2.3,y:1.1}],foot:[{x:-2.3,y:3},{x:2.3,y:3}]}:{head:{x:0,y:-14.2},shoulder:[{x:-4.5,y:-10.5},{x:4.5,y:-10.5}],hip:{x:0,y:-2.2},elbow:[{x:-5.8,y:-7.6},{x:10,y:-8.4}],hand:[{x:-6,y:-4.1},{x:16,y:-8}],knee:[{x:-2.3,y:1.1},{x:2.3,y:1.1}],foot:[{x:-2.3,y:3},{x:2.3,y:3}]});
-   drawFigure(c,{...dannyPalette,hairStyle:'short',pose:'aim',joints:aimJoints});
+   drawFigure(c,{...dannyPalette,hairStyle:'short',pose:'aim',joints:aimJoints,_fx:this._fx,_fxSide:this._fxSide,_fx2:this._fx2,_fx2Off:this._fx2Off,_face:this._face});
    const weaponHand=aimJoints.hand[1],weaponAngle=this._marinaCover5?(this._weaponAngle??2.72):this._marinaCover2Joints?.42:0;c.save();c.translate(weaponHand.x,weaponHand.y);c.rotate(weaponAngle);c.strokeStyle='#34383a';c.lineWidth=1.8;c.beginPath();c.moveTo(0,0);c.lineTo(-6,0);c.lineTo(-6,1.8);c.stroke();if(this._marinaMuzzleFlash){c.save();c.translate(-10,0);if(!world._fxLegacy)c.scale(.45,.45);c.fillStyle='#fff';c.strokeStyle='#ffbd62';c.lineWidth=1.2;c.shadowColor='#ff8b35';c.shadowBlur=world._fxLegacy?15:4;c.beginPath();c.moveTo(0,-6);c.lineTo(2,-2);c.lineTo(8,0);c.lineTo(2,2);c.lineTo(0,6);c.lineTo(-2,2);c.lineTo(-7,0);c.lineTo(-2,-2);c.closePath();c.fill();c.stroke();c.restore();}c.restore();
   }else if(this._cover){
    // A larger staged cover pose reads clearly beside the crate at thumbnail size.

diff --git a/game/src/gang.js b/game/src/gang.js
@@ -9,5 +9,5 @@ export class GangCrew{
  if(p.state==='duck'){p.timer-=dt;if(p.timer<=0){p.state='combat';p.timer=.5;}}if(p.state==='flee'){const a=Math.atan2(p.y-target.y,p.x-target.x);this.move(p,Math.cos(a)*95*dt,Math.sin(a)*95*dt);p.angle=a;}}
  this.crews=this.crews.filter(c=>c.members.some(p=>p.state!=='down'||p.fade>0));}
  move(p,dx,dy){const w=this.world,x=p.x+dx,y=p.y+dy;if(w.city.isLand(x,y)&&!w.city.collidesBuilding(x,y,5)){p.x=x;p.y=y;}}
- draw(c){for(const crew of this.crews)for(const p of crew.members){if(p.state==='down'&&p.fade<=0)continue;c.save();c.globalAlpha=p.state==='down'?Math.max(0,p.fade):1;c.translate(p.x,p.y);const customWeapon=p._cover2Weapon||p._cover3Weapon,joints=customWeapon?p.joints:p._marinaWeapon?{hand:[{x:-6,y:-4.5},{x:8,y:-4.5}]}:undefined;drawFigure(c,{torso:p._cover2Ally?p.color:this.world._marinaShotMarker?'#B65D59':crew.color,skin:ART.palette.swatches.s154,pants:ART.palette.swatches.s155,hair:ART.palette.swatches.s156,hairStyle:'short',pose:p._cover2Pose||(p._advancing?'run':p.state==='combat'?'aim':'idle'),joints});if(p.armed&&p.state==='combat'){const anchor=customWeapon?p.joints.hand[1]:{x:8,y:-4.5},hand={x:anchor.x*ART.figureScale,y:anchor.y*ART.figureScale},angle=p._cover2Weapon?p._weaponAngle:p._marinaWeapon?p._marinaAimAngle:p.angle;c.save();c.translate(hand.x,hand.y);c.rotate(angle);c.strokeStyle=ART.palette.swatches.s157;c.lineWidth=3;c.beginPath();c.moveTo(-1,0);c.lineTo(10,0);c.stroke();c.strokeStyle='#b5aaa0';c.lineWidth=.8;c.beginPath();c.moveTo(1,-1);c.lineTo(9,-1);c.stroke();if(p._flash||p._coverRightFiring||(p._cover2Weapon&&p._cover2Firing)){c.save();c.translate(11,0);const radius=p._coverRightFiring?11:10,glow=c.createRadialGradient(0,0,0,0,0,radius);glow.addColorStop(0,p._coverRightFiring?'rgba(255,196,112,.17)':'rgba(255,196,112,.15)');glow.addColorStop(1,'rgba(255,144,65,0)');c.fillStyle=glow;c.beginPath();c.arc(0,0,radius,0,Math.PI*2);c.fill();c.fillStyle='#ffc56e';c.strokeStyle='#fff0c9';c.lineWidth=.7;c.beginPath();c.moveTo(0,-2.4);c.lineTo(1.2,-.8);c.lineTo(3,0);c.lineTo(1.2,.8);c.lineTo(0,2.4);c.lineTo(-1.2,.8);c.lineTo(-3,0);c.lineTo(-1.2,-.8);c.closePath();c.fill();c.stroke();c.restore();}c.restore();}c.restore();}}
+ draw(c){for(const crew of this.crews)for(const p of crew.members){if(p.state==='down'&&p.fade<=0)continue;c.save();c.globalAlpha=p.state==='down'?Math.max(0,p.fade):1;c.translate(p.x,p.y);const customWeapon=p._cover2Weapon||p._cover3Weapon,joints=customWeapon?p.joints:p._marinaWeapon?{hand:[{x:-6,y:-4.5},{x:8,y:-4.5}]}:undefined;drawFigure(c,{torso:p._cover2Ally?p.color:this.world._marinaShotMarker?'#B65D59':crew.color,skin:ART.palette.swatches.s154,pants:ART.palette.swatches.s155,hair:ART.palette.swatches.s156,hairStyle:'short',pose:p._cover2Pose||(p._advancing?'run':p.state==='combat'?'aim':'idle'),joints,_face:p._face});if(p.armed&&p.state==='combat'){const anchor=customWeapon?p.joints.hand[1]:{x:8,y:-4.5},hand={x:anchor.x*ART.figureScale,y:anchor.y*ART.figureScale},angle=p._cover2Weapon?p._weaponAngle:p._marinaWeapon?p._marinaAimAngle:p.angle;c.save();c.translate(hand.x,hand.y);c.rotate(angle);c.strokeStyle=ART.palette.swatches.s157;c.lineWidth=3;c.beginPath();c.moveTo(-1,0);c.lineTo(10,0);c.stroke();c.strokeStyle='#b5aaa0';c.lineWidth=.8;c.beginPath();c.moveTo(1,-1);c.lineTo(9,-1);c.stroke();if(p._flash||p._coverRightFiring||(p._cover2Weapon&&p._cover2Firing)){c.save();c.translate(11,0);const radius=p._coverRightFiring?11:10,glow=c.createRadialGradient(0,0,0,0,0,radius);glow.addColorStop(0,p._coverRightFiring?'rgba(255,196,112,.17)':'rgba(255,196,112,.15)');glow.addColorStop(1,'rgba(255,144,65,0)');c.fillStyle=glow;c.beginPath();c.arc(0,0,radius,0,Math.PI*2);c.fill();c.fillStyle='#ffc56e';c.strokeStyle='#fff0c9';c.lineWidth=.7;c.beginPath();c.moveTo(0,-2.4);c.lineTo(1.2,-.8);c.lineTo(3,0);c.lineTo(1.2,.8);c.lineTo(0,2.4);c.lineTo(-1.2,.8);c.lineTo(-3,0);c.lineTo(-1.2,-.8);c.closePath();c.fill();c.stroke();c.restore();}c.restore();}c.restore();}}
 }

diff --git a/game/src/pedestrians.js b/game/src/pedestrians.js
@@ -3,7 +3,7 @@ export class PedestrianCrowd {
  constructor(world){this.world=world;this.people=[];for(let i=0;i<26;i++)this.spawn();}
  spawn(){const w=this.world,r=w.rng.pick(w.city.roads),vertical=r.x1===r.x2,x=vertical?r.x1+(w.rng.chance(.5)?1:-1)*(r.width/2+13):w.rng.range(520,4700),y=vertical?w.rng.range(30,3500):r.y1+(w.rng.chance(.5)?1:-1)*(r.width/2+13),color=w.rng.pick(['#d98c64','#ebc56f','#60969a','#b76d63','#e6d7b7','#526f8d','#83a65d','#bd7650']),skin=w.rng.pick(['#dbad83','#efc59c','#a86f50','#c68d69','#f0d1ad']),pants=w.rng.pick(['#35434f','#4d4942','#303e51','#6a5548']);if(w.city.isWater(x,y)||w.city.collidesBuilding(x,y,4)){this.people.push({x:535,y:800,vx:0,vy:0,color,skin,pants,timer:0});return;}this.people.push({x,y,vx:0,vy:0,color,skin,pants,timer:0,angle:0});}
  update(dt){const w=this.world,player=w.driving||w.player;for(const p of this.people){p.timer=Math.max(0,p.timer-dt);const dx=p.x-player.x,dy=p.y-player.y,d=Math.hypot(dx,dy);const fast=!!w.driving&&Math.abs(w.driving.speed)>115&&d<150;if((d<220&&(fast||w._gunfire))){p.timer=1.4;p.run=true;}if(p.cower>0){p.cower-=dt;continue;}if(p.timer>0){const m=d||1;p.vx=dx/m*95;p.vy=dy/m*95;}else{p.run=false;if(!p.dir||w.rng.chance(.003)){p.dir=w.rng.pick([-1,1]);p.cross=w.rng.chance(.12);}p.vx=p.cross?Math.cos(p.angle||0)*30:p.dir*24;p.vy=p.cross?Math.sin(p.angle||0)*30:0;}let x=p.x+p.vx*dt,y=p.y+p.vy*dt;if(w.city.isLand(x,y)&&!w.city.collidesBuilding(x,y,4)){p.x=x;p.y=y;}else p.dir*=-1;p.angle=Math.atan2(p.vx,-p.vy);}}
- draw(c){for(const p of this.people){const walking=p.run||Math.abs(p.vx||0)+Math.abs(p.vy||0)>12,phase=p.phase??(walking?Math.sin(this.world.time*10+p.x*.07)*2.5:0);c.save();c.translate(p.x,p.y);c.rotate(p._marinaReaction||p._homecomingPose?(p.angle||0):(p._recoil?-.32:p._coverOwnerStagger?0:0));const coverJoints=p._coverOwnerStagger?{head:{x:-1.2,y:-15.6},shoulder:[{x:-4.6,y:-10.6},{x:4.4,y:-10.2}],hip:{x:-0.3,y:-2.0},elbow:[{x:-8.8,y:-9.6},{x:7.4,y:-4.6}],hand:[{x:-11.6,y:-13.8},{x:9.5,y:0.5}],knee:[{x:-4.6,y:0.6},{x:3.4,y:1.6}],foot:[{x:-7.6,y:0.2},{x:4.8,y:4.6}]}:undefined;drawFigure(c,{hero:p.hero,torso:p.color,inner:p.inner,skin:p.skin,pants:p.pants,hair:p.hair||hashHair(p),hairStyle:p.hairStyle||hashStyle(p),phase,pose:p.pose||(p._coverOwnerStagger?'stumble':p.run?'run':walking?'walk':p._alarmed?'stumble':'idle'),joints:p.joints||coverJoints,rim:p._homecomingPose===true,_hairLong2:p._hairLong2,_hairLong3:p._hairLong3,_femFigure:p._femFigure});c.restore();}}
+ draw(c){for(const p of this.people){const walking=p.run||Math.abs(p.vx||0)+Math.abs(p.vy||0)>12,phase=p.phase??(walking?Math.sin(this.world.time*10+p.x*.07)*2.5:0);c.save();c.translate(p.x,p.y);c.rotate(p._marinaReaction||p._homecomingPose?(p.angle||0):(p._recoil?-.32:p._coverOwnerStagger?0:0));const coverJoints=p._coverOwnerStagger?{head:{x:-1.2,y:-15.6},shoulder:[{x:-4.6,y:-10.6},{x:4.4,y:-10.2}],hip:{x:-0.3,y:-2.0},elbow:[{x:-8.8,y:-9.6},{x:7.4,y:-4.6}],hand:[{x:-11.6,y:-13.8},{x:9.5,y:0.5}],knee:[{x:-4.6,y:0.6},{x:3.4,y:1.6}],foot:[{x:-7.6,y:0.2},{x:4.8,y:4.6}]}:undefined;drawFigure(c,{hero:p.hero,torso:p.color,inner:p.inner,skin:p.skin,pants:p.pants,hair:p.hair||hashHair(p),hairStyle:p.hairStyle||hashStyle(p),phase,pose:p.pose||(p._coverOwnerStagger?'stumble':p.run?'run':walking?'walk':p._alarmed?'stumble':'idle'),joints:p.joints||coverJoints,rim:p._homecomingPose===true,_hairLong2:p._hairLong2,_hairLong3:p._hairLong3,_femFigure:p._femFigure,_fx:p._fx,_fxSide:p._fxSide,_fx2:p._fx2,_fx2Off:p._fx2Off,_face:p._face});c.restore();}}
 }
 function hashValue(p){let h=2166136261,s=`${Math.round(p.x||0)}:${Math.round(p.y||0)}:${p.color||''}`;for(let i=0;i<s.length;i++)h=Math.imul(h^s.charCodeAt(i),16777619);return h>>>0;}
 function hashHair(p){return ['#392b25','#554033','#302a27','#665046','#453b35'][hashValue(p)%5];}
